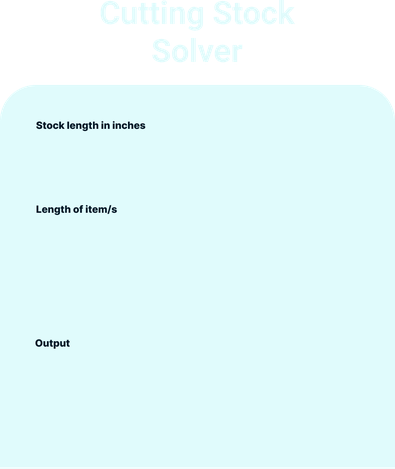
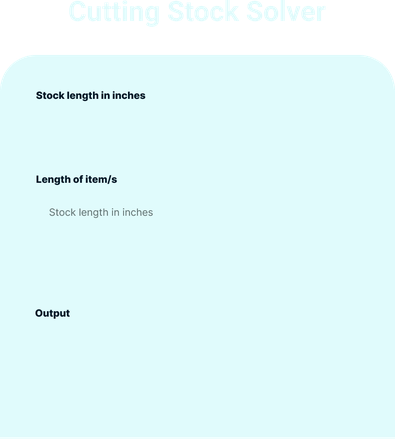
current version

diff --git a/ComputeCutsPage/ComputeCutsPage.py b/ComputeCutsPage/ComputeCutsPage.py
@@ -1,9 +1,8 @@
 from tkinter import *
-from tkinter import messagebox
 from pathlib import Path
 import mysql.connector
 from CuttingStockSolver import CuttingStockSolver
-from tkinter import scrolledtext, font, ttk
+from tkinter import scrolledtext, font, ttk, messagebox
 
 
 # Frame for start page
@@ -22,11 +21,18 @@ class ComputeCutsPage(Frame):
 
         # creating the background design for start page
         self.image_bg = PhotoImage(file=self.relative_to_assets("bg.png"))
-        canvas.create_image(197.0, 285.0, image=self.image_bg)
+        canvas.create_image(197.0, 301.0, image=self.image_bg)
         
         # Get the font style and size from the input widget
         input_font = font.Font(family="Roboto", size=10)
 
+        
+        # Sign Out button
+        self.button_imgSignOut = PhotoImage(file=self.relative_to_assets("signOut.png"))
+        button_SignOut = Button(self, image=self.button_imgSignOut, borderwidth=0, highlightthickness=0,
+                                command=lambda: controller.show_frame("StartPage"), relief="flat")
+        button_SignOut.place(x=35.0, y=25.0, width=77.0, height=22.0)
+        
         
         # stock length entry
         self.stock_length = StringVar()
@@ -54,21 +60,24 @@ class ComputeCutsPage(Frame):
         self.entry_itemLength.bind("<FocusOut>", self.on_itemLength_focus_out)
         self.set_entry_text_color()
         
+        
         # generate cuts button
         self.button_imgGenerateCuts = PhotoImage(file=self.relative_to_assets("genCuts.png"))
         button_GenerateCuts = Button(self, image=self.button_imgGenerateCuts, borderwidth=0, highlightthickness=0,
                                 command=lambda: self.generate_cuts(), relief="flat")
         button_GenerateCuts.place(x=115.0, y=336.0, width=162.0, height=36.0)
         
-        # output
+        
+        # Output
         self.output = StringVar()
         self.entry_imgOutput = PhotoImage(file=self.relative_to_assets("entry_Big.png"))
         self.entry_img = Label(self, image=self.entry_imgOutput, bg="#E0FBFC")
         self.entry_img.place(x=35, y=401)
-        self.entry_output = scrolledtext.ScrolledText(self, wrap="word", bd=0, bg="#98C1D9", fg="#000716", highlightthickness=0)
+        self.entry_output = Text(self, bd=0, bg="#98C1D9", fg="#000716", highlightthickness=0)
         self.entry_output.place(x=47.0, y=404.0, width=298.0, height=80.0)
         self.entry_output.config(font=input_font)
 
+        
 
     # function for the right path
     def relative_to_assets(self, path: str) -> Path:
@@ -93,23 +102,31 @@ class ComputeCutsPage(Frame):
             self.entry_itemLength.config(fg="#000716")  # User input color
     
     def generate_cuts(self):
-        # Split the input string into a list of integers
-        items_input = [int(x) for x in self.items_length.get().split(" ")]
+        try:
+            # Split the input string into a list of integers
+            items_input = [int(x) for x in self.items_length.get().split(" ")]
 
-        # Convert items_input list into a dictionary where the key is the index and the value is the item value
-        items_dict = {index: value for index, value in enumerate(items_input)}
+            # Convert items_input list into a dictionary where the key is the index and the value is the item value
+            items_dict = {index: value for index, value in enumerate(items_input)}
 
-        problem = CuttingStockSolver(self.stock_length.get(), items_dict)
-        problem.branch_and_bound_solve()
+            problem = CuttingStockSolver(self.stock_length.get(), items_dict)
+            problem.branch_and_bound_solve()
 
-        # Get the solution as a string
-        solution_str = problem.print_solution()
+            # Get the solution as a string
+            solution_str = problem.print_solution()
 
-        # Clear the previous content and set the solution to the output Text widget
-        self.entry_output.delete(1.0, "end")
-        self.entry_output.insert("insert", solution_str)
+            # Disable the entry_output widget to prevent user input
+            self.entry_output.config(state="normal")
 
+            # Clear the previous content and set the solution to the output Text widget
+            self.entry_output.delete(1.0, "end")
+            self.entry_output.insert("insert", solution_str)
 
-
+        except ValueError:
+            # Show a pop-up error message if a non-integer value is entered
+            messagebox.showerror("Invalid Input", "Please enter integers separated by spaces.")
+            # Clear the entry_itemLength widget
+            self.items_length.set(self.placeholder_text)
+            self.set_entry_text_color()
 
 

diff --git a/CreateAccPage/CreateAccPage.py b/CreateAccPage/CreateAccPage.py
@@ -49,7 +49,7 @@ class CreateAccPage(Frame):
         # create account button
         self.button_imgCreateAcc = PhotoImage(file=self.relative_to_assets("createAcc.png"))
         button_CreateAcc = Button(self, image=self.button_imgCreateAcc, borderwidth=0, highlightthickness=0,
-                               command=lambda: self.create_account(), relief="flat")
+                               command=lambda: self.create_account(controller), relief="flat")
         button_CreateAcc.place(x=117.0, y=441.0, width=162.0, height=36.0)
         
         # creating the back button
@@ -97,7 +97,7 @@ class CreateAccPage(Frame):
             messagebox.showerror("Error", f"Error checking username existence: {error}")
             return False
 
-    def create_account(self):
+    def create_account(self, controller):
         username = self.username.get()
         password = self.newPassword.get()
         confirm_password = self.confirmPassword.get()
@@ -132,4 +132,5 @@ class CreateAccPage(Frame):
             messagebox.showerror("Error", f"Error saving account: {error}")
         finally:
             connection.close()
+            controller.show_frame("SignInPage")
 

diff --git a/GUI/build/gui.py b/GUI/build/gui.py
@@ -39,7 +39,7 @@ image_image_1 = PhotoImage(
     file=relative_to_assets("image_1.png"))
 image_1 = canvas.create_image(
     197.0,
-    285.0,
+    301.0,
     image=image_image_1
 )
 
@@ -129,10 +129,10 @@ button_2 = Button(
     relief="flat"
 )
 button_2.place(
-    x=34.0,
-    y=22.0,
-    width=26.0,
-    height=26.0
+    x=35.0,
+    y=35.0,
+    width=77.0,
+    height=22.0
 )
 window.resizable(False, False)
 window.mainloop()

diff --git a/SignInPage/SignInPage.py b/SignInPage/SignInPage.py
@@ -101,7 +101,7 @@ class SignInPage(Frame):
 
             messagebox.showinfo("Success", "Login successful!")
             cursor.close()
-            controller.show_frame("StartPage")
+            controller.show_frame("ComputeCutsPage")
 
             # Perform any actions needed after successful login (e.g., navigate to a new page)
             # For example, you can call the method to navigate to a new page like this:
